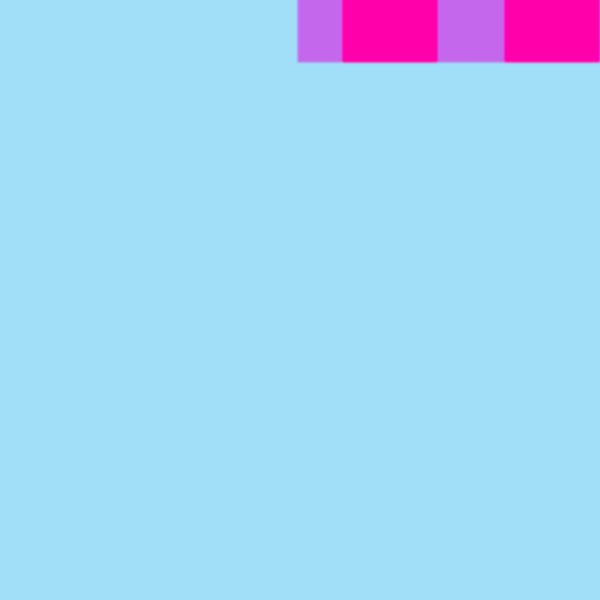
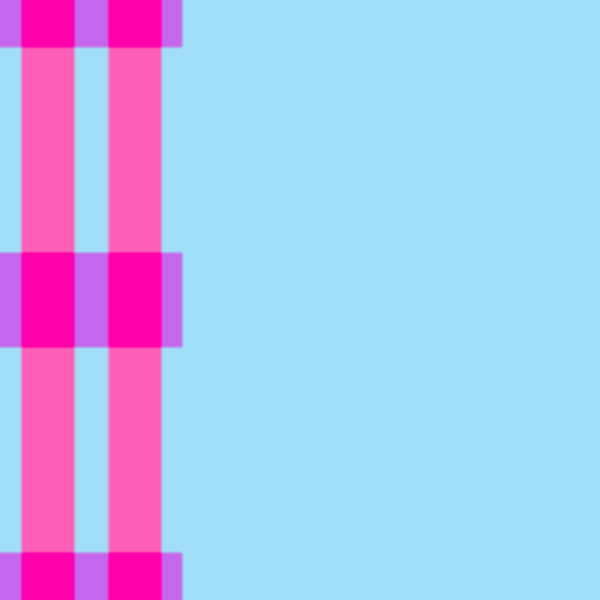
changes to train tracks

Changed region(s): [[0.0, 0.0, 0.33, 1.0], [0.48, 0.0, 1.0, 0.12]]

diff --git a/sketch3.js b/sketch3.js
@@ -3,11 +3,11 @@ const tileImages = [];
 
 let grid = [];
 
-const DIM = 30;
+const DIM = 8;
 
 function preload() {
   const path = "large_tracks";
-  for (let i = 0; i < 8; i++) {
+  for (let i = 0; i < 5; i++) {
     tileImages[i] = loadImage(`${path}/${i}.png`);
   }
 }
@@ -16,16 +16,13 @@ function setup() {
   createCanvas(800, 800);
 
   // Loaded and created the tiles
-  tiles[0] = new Tile(tileImages[0], ["AA", "AA", "AA", "AA"]);
-  tiles[1] = new Tile(tileImages[1], ["CA", "AA", "AD", "PP"]);
-  tiles[2] = new Tile(tileImages[2], ["CA", "AC", "AA", "AA"]);
-  tiles[3] = new Tile(tileImages[3], ["AD", "EA", "AA", "AA"]);
-  tiles[4] = new Tile(tileImages[4], ["EA", "AA", "AF", "PP"]);
-  tiles[5] = new Tile(tileImages[5], ["EA", "AA", "AA", "AF"]);
-  tiles[6] = new Tile(tileImages[6], ["AF", "EA", "AA", "AA"]);
-  tiles[7] = new Tile(tileImages[7], ["CA", "AA", "AA", "AF"]);
+  tiles[0] = new Tile(tileImages[0], ["AAA", "AAA", "AAA", "AAA"]);
+  tiles[1] = new Tile(tileImages[1], ["ABA", "AAA", "ABA", "AAA"]);
+  tiles[2] = new Tile(tileImages[2], ["BAA", "AAB", "AAA", "AAA"]);
+  tiles[3] = new Tile(tileImages[3], ["BAA", "AAA", "AAB", "AAA"]);
+  tiles[4] = new Tile(tileImages[4], ["ABA", "AAA", "AAA", "AAB"]);
   
-  for (let i = 0; i < 8; i++) {
+  for (let i = 0; i < 5; i++) {
     for (let j = 1; j < 4; j++) {
       tiles.push(tiles[i].rotate(j));
     }
